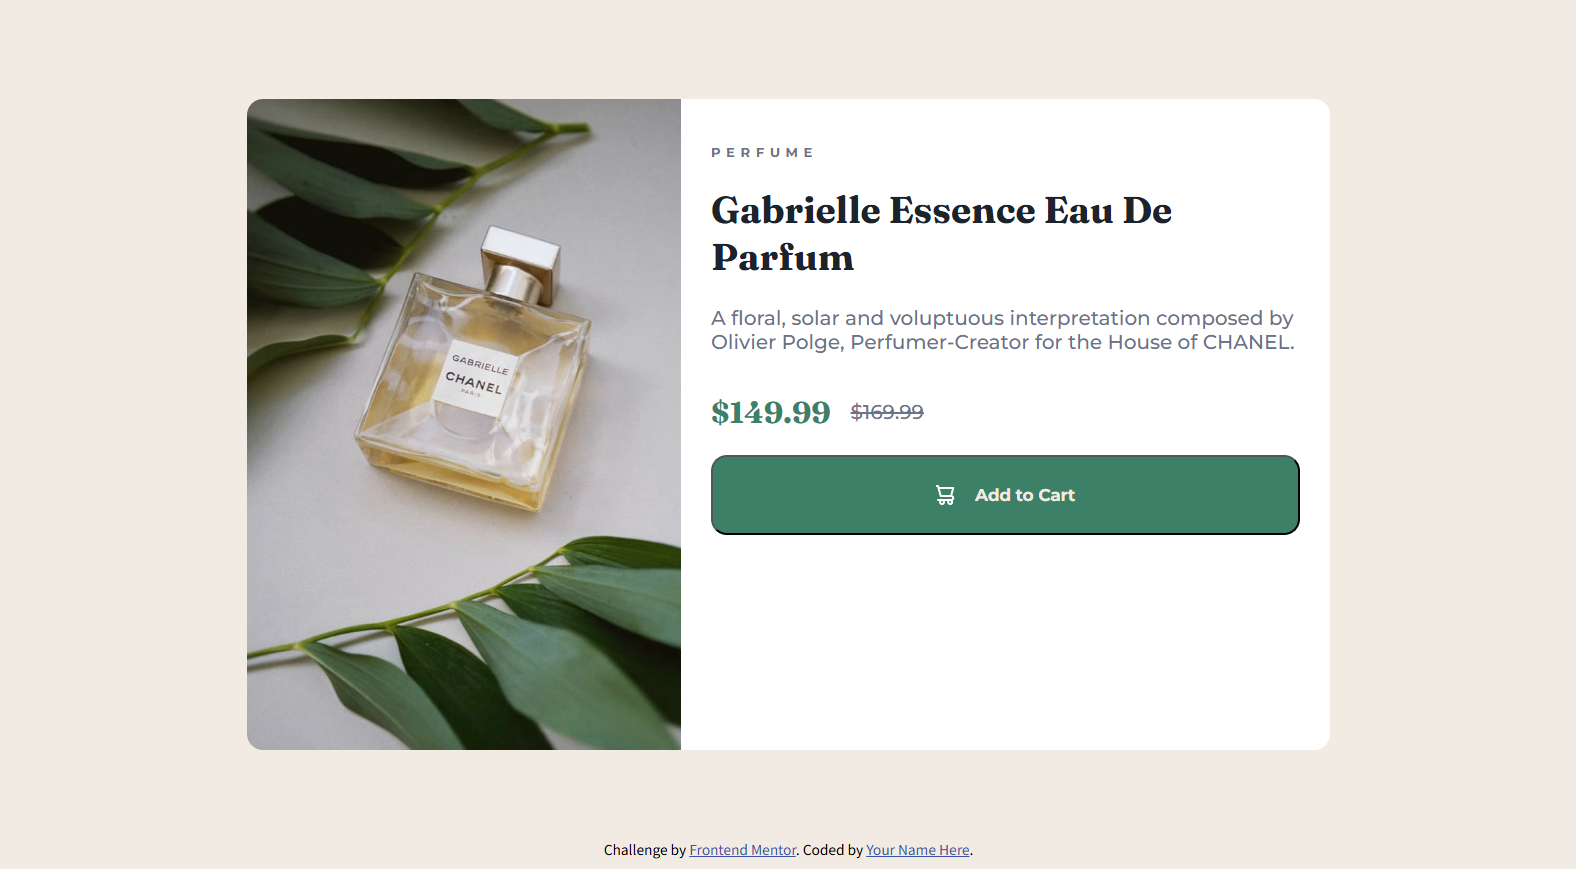
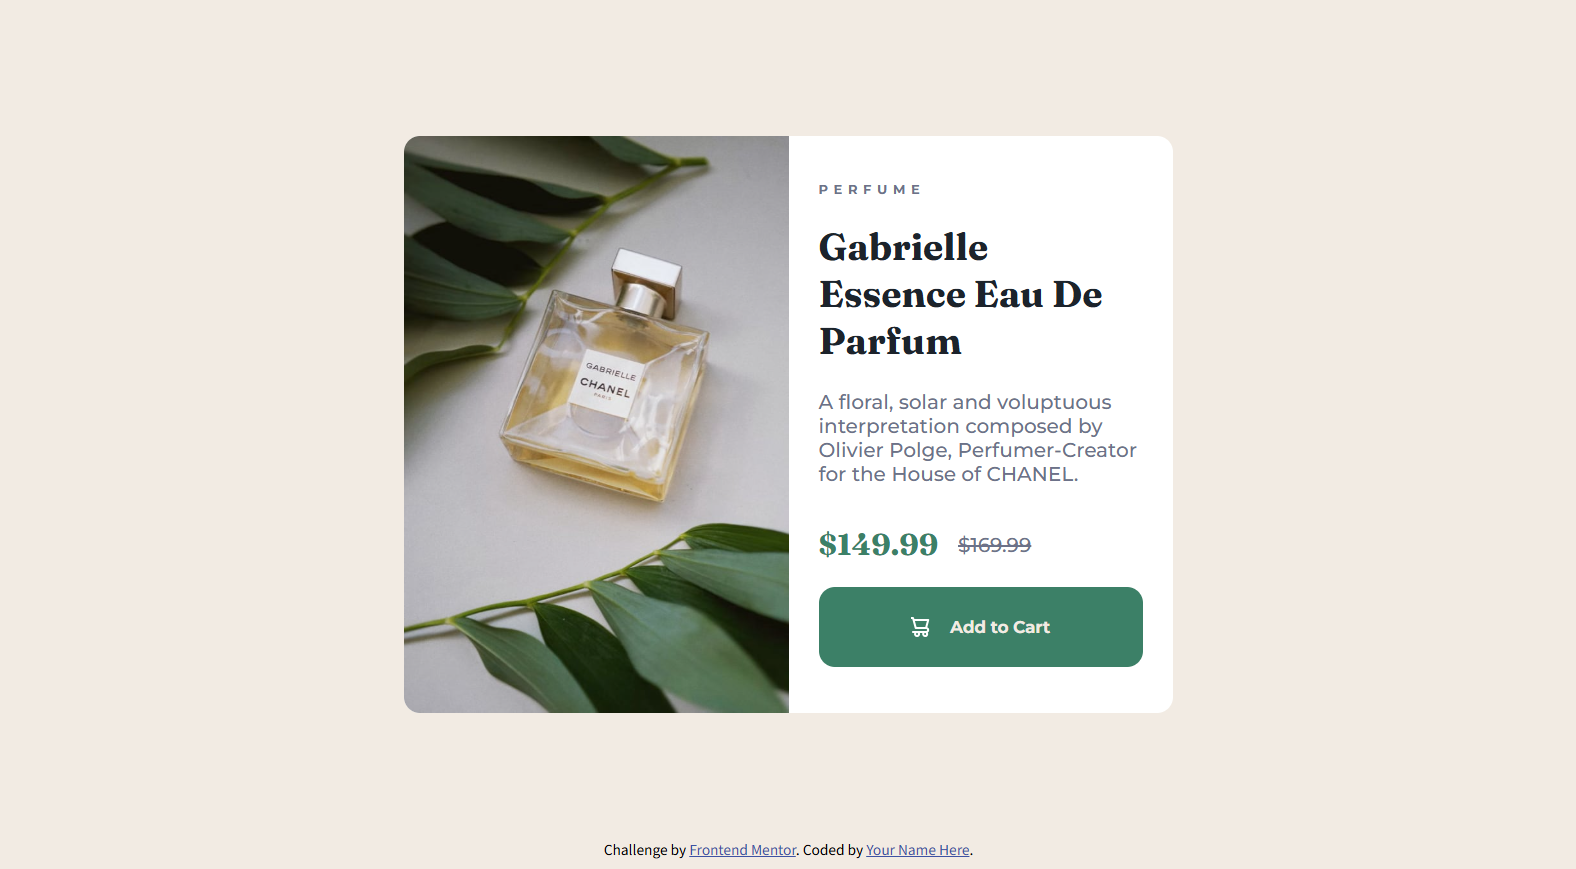
update css

diff --git a/style.css b/style.css
@@ -115,6 +115,8 @@ html, body {
             border-radius: 0.8rem;
             height: 4rem;
 
+            border-width: 0;
+
             cursor: pointer;
             
             transition: background-color 0.1s ease;
@@ -145,17 +147,24 @@ html, body {
 
 @media (min-width: 768px) {
     .container {
-        padding: 0 15vw;
+        padding: 0 25vw;
     }
 
     .card {
         flex-direction: row;
+        width: unset;
+        max-height: 75vh;
+
+        .image {
+            max-width: 50%;
+            object-fit: cover;
+            content: url('./images/image-product-desktop.jpg');
+        }
+
+        .content {
+            max-width: 50%;
+        }
     }
 
-    .image {
-        width: 50%;
-        max-height: 75vh;
-        object-fit: cover;
-        content: url('./images/image-product-desktop.jpg');
-    }
+
 }

diff --git a/index.html b/index.html
@@ -34,7 +34,7 @@
   </div>
   <div class="attribution">
     Challenge by <a href="https://www.frontendmentor.io?ref=challenge" target="_blank">Frontend Mentor</a>. 
-    Coded by <a href="https://github.com/LYGreen">Your Name Here</a>.
+    Coded by <a href="https://github.com/LYGreen">LYGreen</a>.
   </div>
 </body>
 </html>
